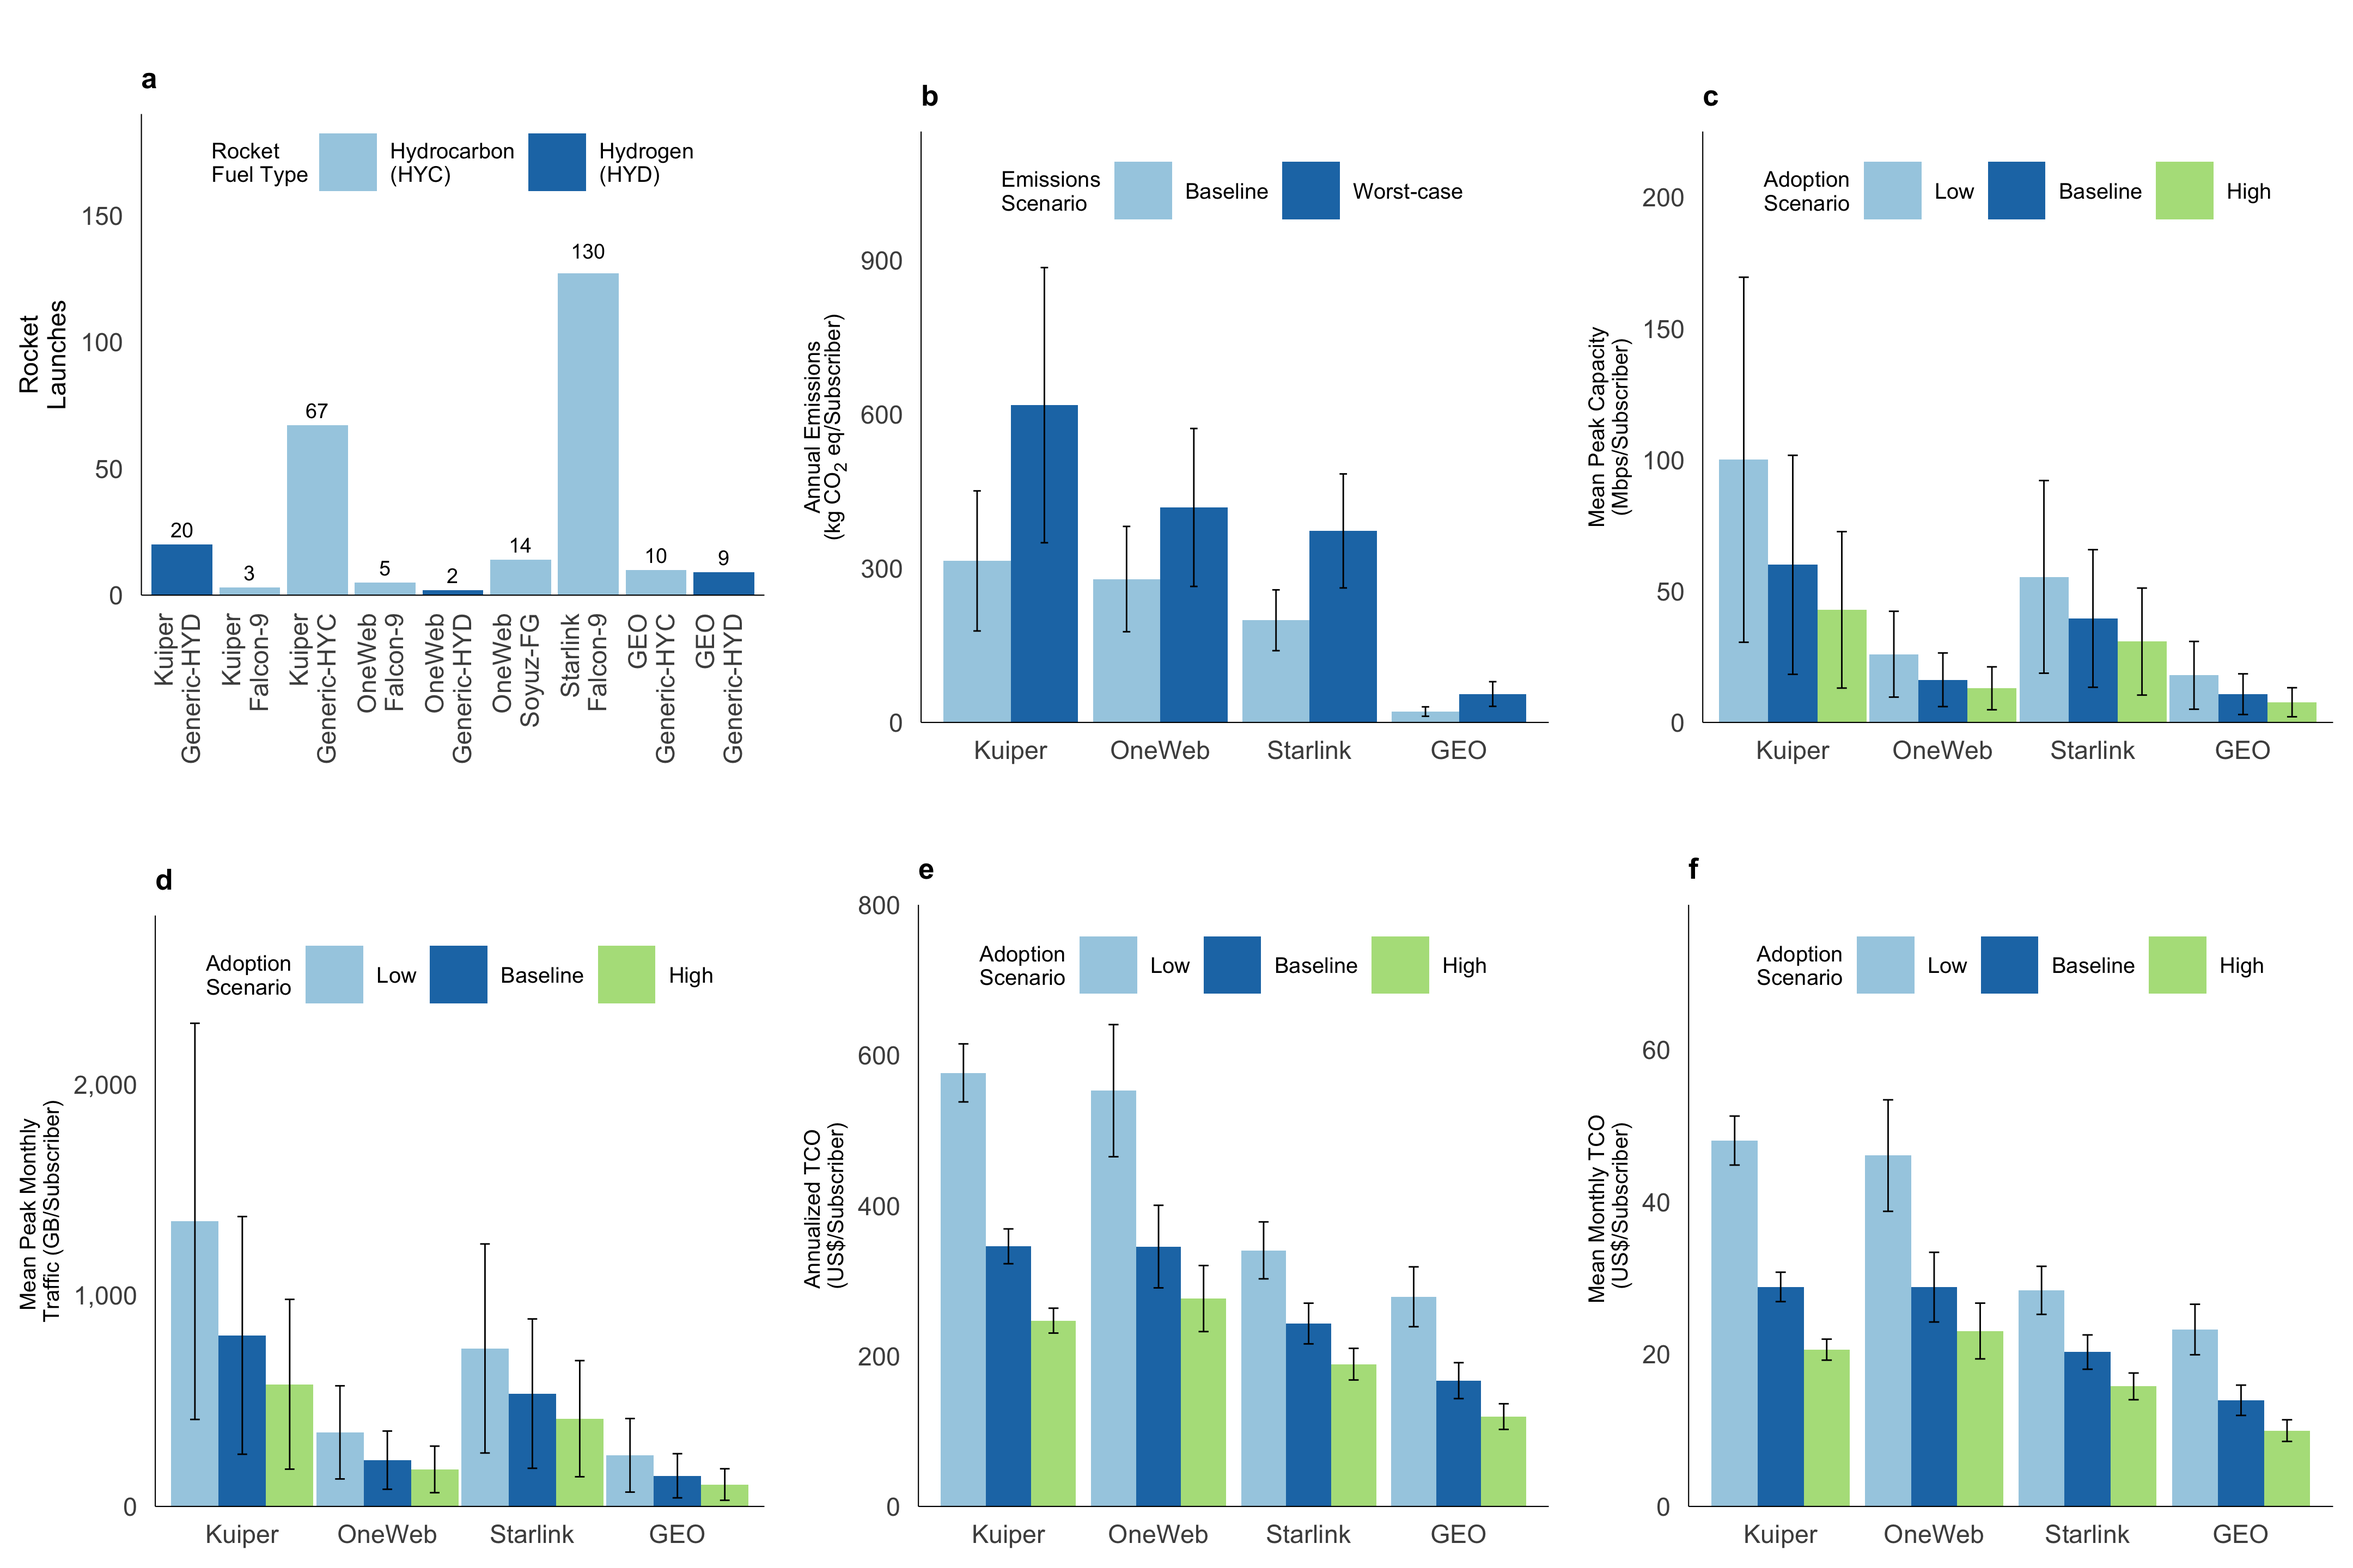
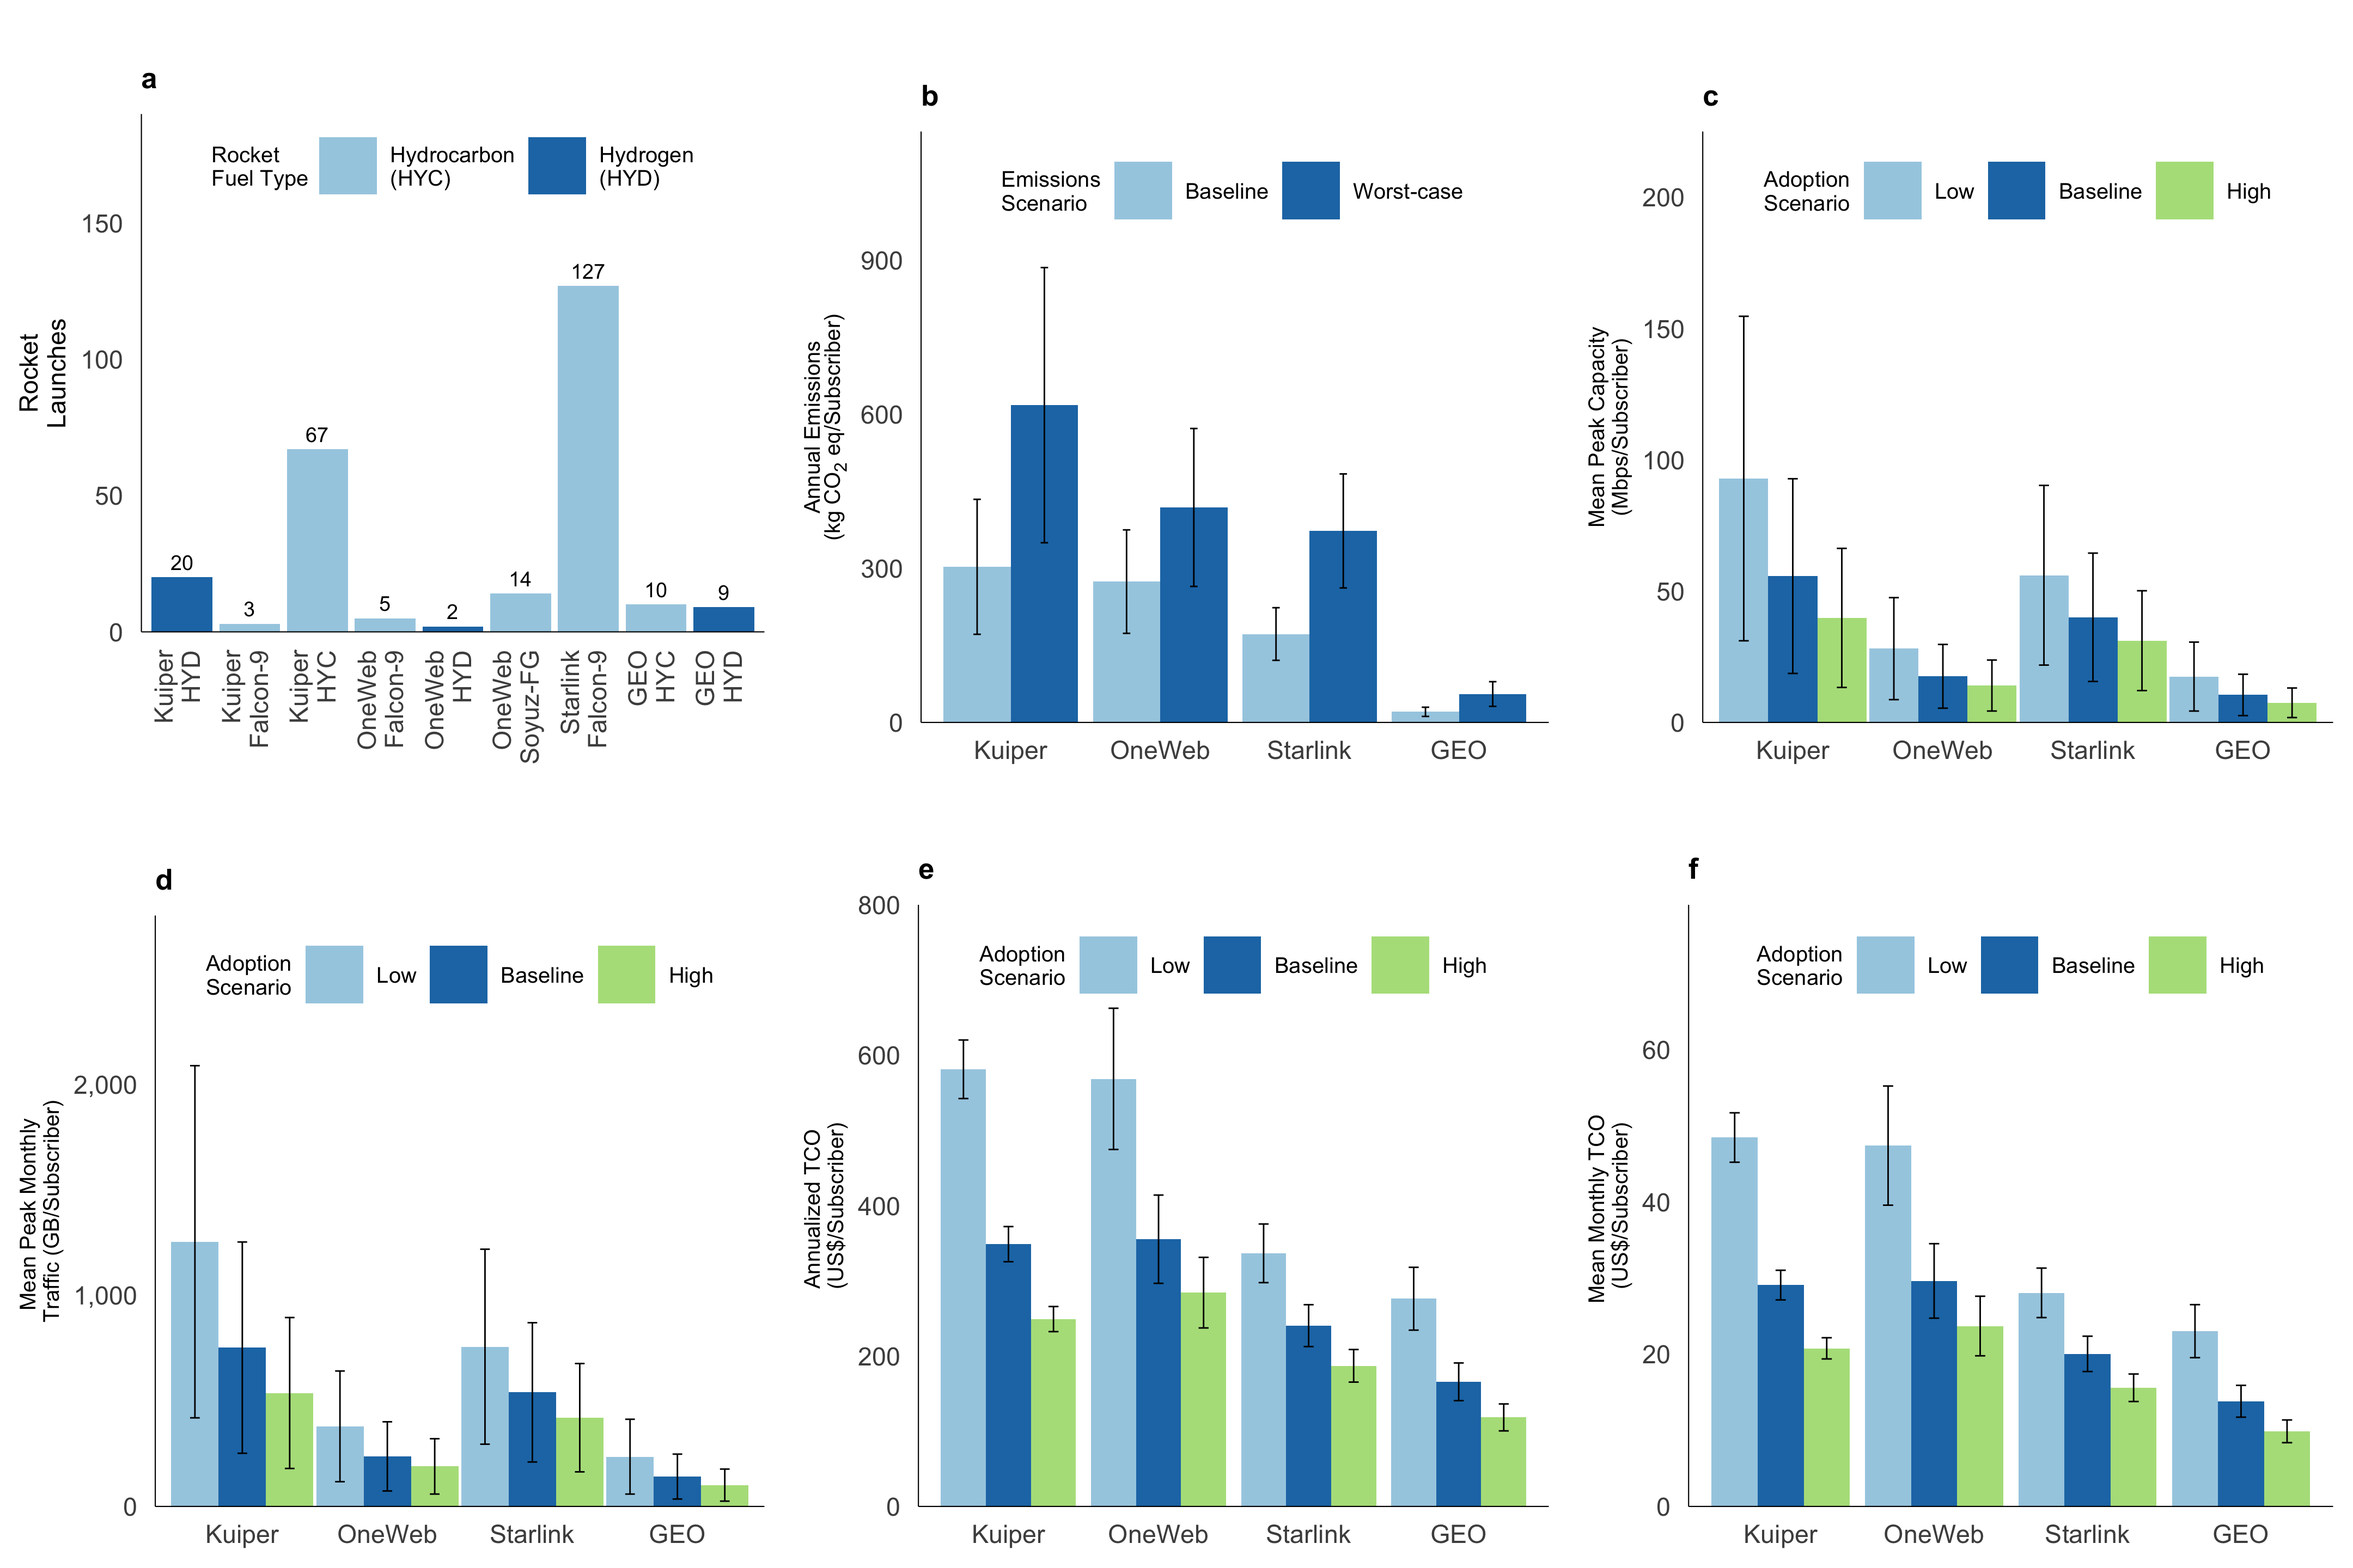
Update readme text

diff --git a/README.md b/README.md
@@ -1,32 +1,42 @@
 # Sustainability Analytics for Low Earth Orbit Satellites (saleos)
 
-Welcome to the `saleos` repository.
+Welcome to the Sustainability Analytics for Low Earth Orbit Satellites 
+(`saleos`) repository.
 
-There is increasing concern about adverse environmental impacts produced by Low Earth Orbit (LEO) megaconstellations.
+There is increasing concern about adverse environmental impacts produced by 
+Low Earth Orbit (LEO) megaconstellations. The `saleos` codebase provides an 
+open-source integrated assessment model capable of concurrently estimating 
+environmental emissions, broadband capacity, and social and financial costs 
+for different LEO satellite networks.
 
-While LEO megaconstellations are fronted as an alternative to terrestrial broadband networks, there is a need to place thousands of satellite assets in orbit to provide global coverage. 
-
-`Figure 1` illustrates the configuration of three of the main LEO satellite constellations, including Amazon's Kuiper, OneWeb and SpaceX's Starlink. 
+We focus on evaluating Amazon's Kuiper, Eutelsat's OneWeb and SpaceX's Starlink,
+with these three LEO constellations visualized in `Figure 1`. The `saleos` 
+codebase allows you to compare these LEO constellations against a representative
+Geostationary Earth Orbit (GEO) operator.  
 
 #### Figure 1 Three key LEO constellations: Kuiper, OneWeb and Starlink (Details as of December 2023).
 <p align="center">
   <img src="/docs/a_fig_1.png" />
 </p>
 
-Emissions produced during the launching of satellites depend on the utilized rocket vehicle. 
-
-Most operators planning or launching LEO broadband satellites have used (or intend to use) SpaceX’s Falcon-9 or Falcon-Heavy, the European Space Agency’s Ariane rocket system, or prior to Spring 2022, Russia’s Soyuz-FG rocket, as detailed in `Figure 2`. 
+Emissions produced during the launching of satellites depend on the 
+utilized rocket vehicle. Most operators planning or launching LEO broadband 
+satellites have used (or intend to use) SpaceX’s Falcon-9 or Falcon-Heavy, 
+the European Space Agency’s Ariane rocket system, or prior to Spring 2022, 
+Russia’s Soyuz-FG rocket, as detailed in `Figure 2`. 
 
 #### Figure 2 Details of launch rocket systems.
 <p align="center">
   <img src="/docs/b_fig_2.png" />
 </p>
 
-The `saleos` codebase provides an open-source integrated assessment model capable of concurrently estimating environmental emissions, broadband capacity, and costs for different LEO satellite networks.
 
 ## Sustainability metrics
 
-The `saleos` codebase is capable of estimating a range of sustainability metrics. `Figure 3` illustrates a selection of these including the estimated annual emissions per subscriber (subplot b), potential mean peak monthly traffic per subscriber (subplot d), and the financial cost per subscriber (subplot f).
+The `saleos` codebase is capable of estimating a range of sustainability 
+metrics. `Figure 3` illustrates a selection of these including the estimated 
+annual emissions per subscriber (subplot b), potential mean peak capacity per 
+subscriber (subplot c), and the financial costs per subscriber (subplot e/f).
 
 #### Figure 3 Aggregate sustainability metrics for Kuiper, OneWeb, Starlink and a hypothetical GEO operator.
 <p align = 'center'>
@@ -35,7 +45,12 @@ The `saleos` codebase is capable of estimating a range of sustainability metrics
 
 ## Method
 
-The method is based on (i) a Life Cycle Assessment (LCA) model of environmental emissions and other impacts,(ii) a stochastic engineering simulation model estimating constellation capacity using the Friss Transmission Equation, (iii) demand based on different adoption scenarios, and (iv) a techno-economic model of the associated financial costs. `Figure 4` illustrates the approach.
+The method is based on (i) a Life Cycle Assessment (LCA) model of environmental 
+emissions and other impacts,(ii) a stochastic engineering simulation model 
+estimating constellation capacity using the Friss Transmission Equation, (iii) 
+potential traffic demand based on different adoption scenarios, and (iv) a 
+techno-economic model of the associated social and financial costs. `Figure 4` 
+illustrates the integrated assessment approach.
 
 #### Figure 4 Integrated assessment method.
 <p align = 'center'>
@@ -44,23 +59,18 @@ The method is based on (i) a Life Cycle Assessment (LCA) model of environmental 
 
 ## Required data
 
-To use `saleos` the following datasets are required. 
-1. Launch history dataset : These dataset contains information about the number of launches, dates and types of rockets used by constellations that have already launched their satellites. In this case, Starlink and OneWeb.
-2. Life cycle assessment dataset : This dataset contains the emission types and impact category of major rockets and constellations. 
-3. Scenario data : This file contains the information that is used to estimate the emission of constellations (Starlink & OneWeb) that have already launched their satellites, Kuiper that is yet to launch as well as a hypothetical Geostationary Earth Orbit (GEO) communication satellite operator. It also contains the information for modeling a generic hydrocarbon (HYC) and hydrogen (HYD) fuel based rocket. 
-4. Kuiper, OneWeb and Starlink constellation description dataset: These datasets contains basic technical and orbital parameter details of the three LEO constellations.
-5. Rocket details: This dataset contains information on the characteristics of the rockets previously used in launching LEO satellites. 
-
-The five datasets are stored in the folder, `data/raw`
-
-Now you should be ready to start running the codebase.
+To use `saleos` the following model input datasets are required from `data/raw`: 
+1. `life_cycle_data.xlsx`: This dataset contains estimated emissions and 
+other environmental impacts per launch for major rocket vehicles. 
+2. `scenarios.csv` : This file contains the past and future launch information
+for different constellations, including hydrocarbon (HYC) versus hydrogen (HYD) 
+fuel-based rockets. 
 
 Using conda
 -----------
-
-The recommended installation method is to use conda, which handles packages and virtual
-environments, along with the conda-forge channel which has a host of pre-built libraries and
-packages.
+The recommended installation method is to use conda, which handles packages 
+and virtual environments, along with the conda-forge channel which has a host 
+of pre-built libraries and packages.
 
 Create a conda environment called saleos:
 
@@ -70,27 +80,37 @@ Activate it (run this each time you switch projects):
 
   `conda activate saleos`
 
-Alternatively, to install a conda environment capable of running the model, you can utilize the following code:
+Alternatively, to install a conda environment capable of running the model, 
+you can utilize the following code:
 
   `conda env create -f saleos.yml`
 
-The `saleos.yml` file represents an existing virtual environment with a variety of packages, necessary for running the model (e.g., pandas, numpy etc.).
+The `saleos.yml` file represents an existing virtual environment with a 
+variety of packages, necessary for running the model (e.g., pandas, numpy etc.).
 
-First, to run `saleos` you need to generate uncertain capacity and cost parameters since they are not deterministic.
-So navigate to the `scripts` folder and run `preprocess.py`. This will produce two capacity and cost.csv files named `uq_parameters_capacity.csv` and `uq_parameters_cost.csv` stored in the path `data/processed`
+First, to run `saleos` you need to generate uncertain capacity and cost 
+parameters since they are not deterministic.
 
-Secondly, run the whole integrated model to produce capacity, emission and cost results by running the simulation script (`run.py`). It should first produce the following intermediate results stored in the folder `data/processed`:
+So navigate to the `scripts` folder and run `preprocess.py`. This will produce 
+two capacity and cost.csv files named `uq_parameters_capacity.csv` and 
+`uq_parameters_cost.csv` stored in the path `data/processed`.
+
+Secondly, run the whole integrated model to produce capacity, emission and 
+cost results by running the simulation script (`run.py`). It should first 
+produce the following intermediate results stored in the folder 
+`data/processed`:
 
 1. `interim_results_capacity.csv`
 2. `interim_results_cost.csv`
 
-Next, it should produce the following files stored in the folder path, `results`:
+Next, you can inspect the model outputs stored in the `results` folder:
 
 1. `individual_emissions.csv`
 2. `final_capacity_results.csv`
 3. `final_capacity_cost.csv`
 
-Lastly, to visualize the results, you will navigate into the `vis` folder and run the following `r` scripts in any order.
+Lastly, to visualize the results, you will navigate into the `vis` folder 
+and run the following `r` scripts in any order.
 
 1. `aggregate_metrics.r`
 2. `emissions.r`
@@ -112,19 +132,35 @@ Then run the scripts in the order defined in the previous section (`Using conda`
 
 Citation
 ---------
-Ogutu, O. B., Oughton, E. J., Wilson, A. R, & Rao, A. (2023). Sustainability assessment of Low Earth Orbit (LEO) satellite broadband mega-constellations. arXiv preprint arXiv:2309.02338.
+Ogutu, O. B., Oughton, E. J., Wilson, A. R, & Rao, A. (2023). Sustainability 
+assessment of Low Earth Orbit (LEO) satellite broadband mega-constellations. 
+arXiv preprint arXiv:2309.02338.
 
 Background and funding
 ----------------------
 
-**saleos** has been developed by researchers at George Mason University, University of Strathclyde and Middlebury College.
+**saleos** has been developed by researchers at George Mason University, 
+University of Strathclyde and Middlebury College.
 
 ## Team
 - Bonface Osoro, George Mason University (Model development).
-- Edward Oughton, George Mason University (Project lead and corresponding author).
-- Andrew Wilson, University of Strathclyde / Glasgow Caledonian University (LCIA modeling).
+- Edward Oughton, George Mason University (Project lead and corresponding 
+author).
+- Andrew Wilson, University of Strathclyde / Glasgow Caledonian University 
+(LCIA modeling).
 - Akhil Rao, Middlebury College (Policy and economics).
 
 Acknowledgement
 ---------------
-We would like to thank George Mason University's department of Geography and Geoinformation Science for funding the project. Secondly, we would like to thank Nils Pacher and Dr. Inigo del Portillo of Massachusetts Institute of Technology (MIT), Aeronautics and Astronautics Department for providing the orbital parameter data of Starlink, OneWeb and Kuiper as well as a reproducible python code for modeling the orbit of the three LEO constellations. We would also like to thank Dr. Whitney Lohmeyer of Olin College of Engineering for informally reviewing the capacity model. Lastly, we would like to thank two anonymous reviewers and one satellite industry expert who provided substantial scientific feedback on the peer-reviewed manuscript and capacity model respectively that helped in enhancing quality and key contribution to the literature. 
+We would like to thank George Mason University's department of Geography and 
+Geoinformation Science for funding the project. Secondly, we would like to 
+thank Nils Pacher and Dr. Inigo del Portillo of Massachusetts Institute of 
+Technology (MIT), Aeronautics and Astronautics Department for providing the 
+orbital parameter data of Starlink, OneWeb and Kuiper as well as a reproducible 
+python code for modeling the orbit of the three LEO constellations. We would 
+also like to thank Dr. Whitney Lohmeyer of Olin College of Engineering for 
+informally reviewing the capacity model. Lastly, we would like to thank two 
+anonymous reviewers and one satellite industry expert who provided substantial 
+scientific feedback on the peer-reviewed manuscript and capacity model 
+respectively that helped in enhancing quality and key contribution to the 
+literature. 
